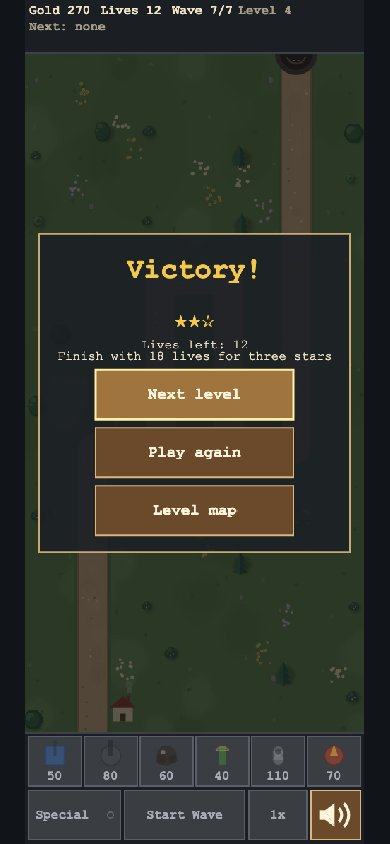
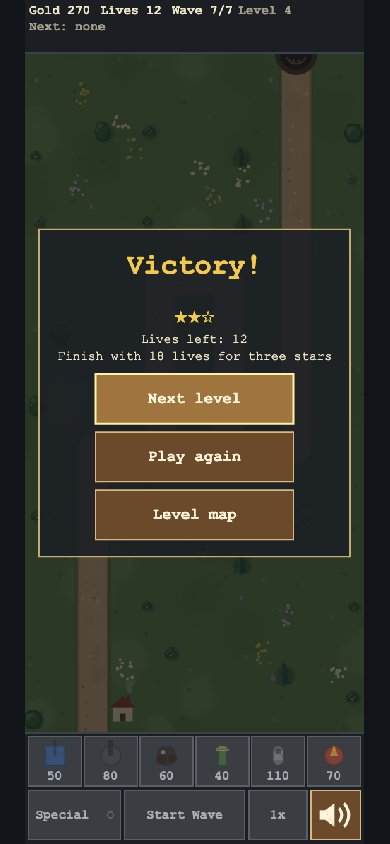
Give each campaign result line its own measured row

Changed region(s): [[0.0923, 0.3697, 0.8923, 0.6777], [0.0923, 0.2464, 0.8923, 0.3389]]

diff --git a/e2e/campaignScreens.ts b/e2e/campaignScreens.ts
@@ -1,6 +1,7 @@
 import { expect, test, type Page } from '@playwright/test';
 import type { TitleUiState } from '../src/game/TitleScene';
 import type { TarpitTestApi } from '../src/game/testGlobal';
+import { CAMPAIGN_TEXT, TITLE_TEXT } from '../src/game/names';
 import { api, press } from './campaign';
 import { paintedAsset, settle } from './painted';
 import { waitForFirstScreen } from './title';
@@ -34,7 +35,90 @@ async function finish(page: Page, win: boolean) {
   await onScreen(page, 'result');
 }
 
+/** Compare the Phaser text bounds and live hit targets in canvas coordinates. */
+async function checkSpacing(page: Page) {
+  const items = await page.evaluate(({ back, play }) => {
+    const t = window.__tarpit as TarpitTestApi;
+    const result = t.campaignResult();
+    const nodes = t.game.scene.getScene(t.scene()).children.list;
+    const labels = nodes.filter((node): node is Phaser.GameObjects.Text =>
+      node.type === 'Text' && (node as Phaser.GameObjects.Text).visible && !!(node as Phaser.GameObjects.Text).text);
+    const keys = result ? ['playAgain', 'menu', ...(result.nextId ? ['nextLevel'] : [])]
+      : Object.keys(t.uiRects()).filter(key => key.startsWith('title:'));
+    const boxes = keys.map(key => ({ key, owner: '', button: true, ...t.uiRects()[key] }));
+    const owners = new Map([[back, 'title:back'], [play, 'title:play']] as [string, string][]);
+    if (result) {
+      const buttons = result.nextId ? ['nextLevel', 'playAgain', 'menu'] : ['playAgain', 'menu'];
+      result.buttons.forEach((label, index) => owners.set(label, buttons[index]));
+    }
+    const expected = result ? [result.title, result.slots, ...result.details, ...result.buttons].filter(Boolean) : [];
+    const texts = result ? expected.map(value => {
+      const label = labels.find(node => node.text === value);
+      if (!label) throw new Error(`Missing separate result line: ${value}`);
+      return label;
+    }) : labels;
+    let stop = '';
+    for (const label of texts) {
+      const { x, y, width, height } = label.getBounds();
+      let owner = owners.get(label.text) ?? '';
+      if (t.screen() === 'levelMap') {
+        if (/^\d+$/.test(label.text)) stop = `title:stop:${label.text}`;
+        if (/^[★☆]+$|^\d+$/.test(label.text)) owner = stop;
+      }
+      boxes.push({ key: label.text, owner, button: false, x, y, width, height });
+    }
+    return boxes;
+  }, { back: CAMPAIGN_TEXT.back, play: TITLE_TEXT.play });
+  expect(items.length).toBeGreaterThan(3);
+  for (const [index, a] of items.entries()) {
+    for (const b of items.slice(index + 1)) {
+      if (a.button && b.owner === a.key) {
+        expect(b.x >= a.x && b.y >= a.y && b.x + b.width <= a.x + a.width &&
+          b.y + b.height <= a.y + a.height, `${b.key} fits ${a.key}`).toBe(true);
+        continue;
+      }
+      const gapX = Math.max(a.x - b.x - b.width, b.x - a.x - a.width);
+      const gapY = Math.max(a.y - b.y - b.height, b.y - a.y - a.height);
+      expect(Math.max(gapX, gapY), `${a.key} overlaps ${b.key}`).toBeGreaterThanOrEqual(0);
+    }
+  }
+}
+
 export function campaignScreenSuite(touch: boolean) {
+  test('campaign labels and buttons have separate space', async ({ page }) => {
+    await page.goto('/?test=1');
+    await waitForFirstScreen(page);
+    await press(page, 'title:campaign', touch);
+    await onScreen(page, 'levelMap');
+    await press(page, 'title:stop:10', touch);
+    await checkSpacing(page);
+    await api(page, t => t.setCampaignProgress(Object.fromEntries(Array.from({ length: 10 }, (_, i) => [i + 1, 3]))));
+    await onScreen(page, 'levelMap');
+    await checkSpacing(page);
+    for (let id = 1; id <= 10; id++) {
+      await press(page, `title:stop:${id}`, touch);
+      await onScreen(page, 'levelCard');
+      await checkSpacing(page);
+      await press(page, 'title:back', touch);
+      await onScreen(page, 'levelMap');
+    }
+    for (const id of [1, 10]) {
+      for (const lives of [0, 11, 12, 20]) {
+        await page.evaluate(async ({ id, lives }) => {
+          const t = window.__tarpit as TarpitTestApi;
+          await t.startLevel(id);
+          const state = t.state();
+          state.wave = state.level!.waves.length;
+          state.lives = lives;
+          state.phase = lives ? 'won' : 'lost';
+          t.step(0);
+        }, { id, lives });
+        await onScreen(page, 'result');
+        await checkSpacing(page);
+      }
+    }
+  });
+
   test('campaign trail, card, level, results and saved progress through real buttons', async ({ page }) => {
     const click = (key: string) => press(page, key, touch);
     await page.goto('/?test=1');

diff --git a/src/game/ui/endScreen.ts b/src/game/ui/endScreen.ts
@@ -60,6 +60,7 @@ export class EndScreen {
   private readonly title: Phaser.GameObjects.Text;
   private readonly lines: Phaser.GameObjects.Text;
   private readonly boons: Phaser.GameObjects.Text;
+  private detailRows: Phaser.GameObjects.Text[] = [];
   private readonly button: Button;
   private readonly menu: Button;
   private readonly keepGoing: Button;
@@ -152,7 +153,10 @@ export class EndScreen {
     if (campaign) {
       this.title.setText(campaign.title);
       this.lines.setText(campaign.slots).setFontSize(32).setColor(TEXT.victory);
-      this.boons.setText(campaign.details).setFontSize(18);
+      this.detailRows = campaign.details.map(text => this.boons.scene.add.text(this.cx, 0, text, {
+        fontFamily: FONT, fontSize: '18px', color: TEXT.endLine, align: 'center',
+        wordWrap: { width: (this.portrait ? P_PANEL_W : 560) - 32 },
+      }).setOrigin(0.5, 0));
       this.button.set(kind === 'won' ? END_TEXT.playAgain : CAMPAIGN_END.retry, true);
       this.menu.set(CAMPAIGN_END.map, true);
       this.keepGoing.set(CAMPAIGN_END.next, true);
@@ -172,6 +176,8 @@ export class EndScreen {
 
   /** Hide the screen (milestone 26: after Keep going); a later show() works again. */
   hide(): void {
+    for (const row of this.detailRows) row.destroy();
+    this.detailRows = [];
     this.shown = null;
     this.campaign = null;
     this.setVisible(false);
@@ -188,8 +194,36 @@ export class EndScreen {
   /** The panel width and the button row for this screen: two buttons, or three on the win screen (milestone 26). */
   private layout(): void {
     const buttons = this.hasAdvance ? [this.keepGoing, this.button, this.menu] : [this.button, this.menu];
+    if (this.campaign) {
+      const titleY = this.portrait ? P_TITLE_Y : 36;
+      const starsY = this.portrait ? P_LINES_Y : 82;
+      const rowGap = 8;
+      let cursor = this.lines.text
+        ? starsY + this.lines.height / 2 + rowGap
+        : starsY;
+      for (const row of this.detailRows) {
+        row.setY(cursor);
+        cursor += row.height + rowGap;
+      }
+      const buttonsY = cursor - rowGap + (this.portrait ? 16 : 22);
+      const buttonHeight = this.portrait
+        ? buttons.length * P_BUTTON_H + (buttons.length - 1) * P_GAP
+        : this.button.rect.height;
+      const h = buttonsY + buttonHeight + (this.portrait ? P_PAD_BOTTOM : 22);
+      const top = this.cy - h / 2;
+      this.panel.setSize(this.portrait ? P_PANEL_W : 560, h);
+      this.title.setY(top + titleY);
+      this.lines.setY(top + starsY);
+      for (const row of this.detailRows) row.setY(top + row.y);
+      if (this.portrait) {
+        buttons.forEach((b, i) => b.moveTo(this.cx - P_BUTTON_W / 2, top + buttonsY + i * (P_BUTTON_H + P_GAP)));
+      } else {
+        this.buttonRow(buttons, top + buttonsY);
+      }
+      return;
+    }
     if (this.portrait) {
-      const detailsY = this.campaign?.kind === 'lost' ? P_LINES_Y : P_BOONS_TOP;
+      const detailsY = P_BOONS_TOP;
       const buttonsY = this.boons.text
         ? Math.max(P_BUTTONS_Y, detailsY + this.boons.height + 10)
         : P_BUTTONS_Y;
@@ -202,21 +236,11 @@ export class EndScreen {
       buttons.forEach((b, i) => b.moveTo(this.cx - P_BUTTON_W / 2, top + buttonsY + i * (P_BUTTON_H + P_GAP)));
       return;
     }
-    let y = this.buttonY;
-    if (this.campaign) {
-      this.boons.setOrigin(0.5, 0);
-      const detailsY = this.lines.text ? 112 : 82;
-      const buttonsY = detailsY + this.boons.height + 22;
-      const h = buttonsY + this.button.rect.height + 22;
-      const top = this.cy - h / 2;
-      this.panel.setSize(560, h);
-      this.title.setY(top + 36);
-      this.lines.setY(top + 82);
-      this.boons.setY(top + detailsY);
-      y = top + buttonsY;
-    } else {
-      this.panel.setSize(this.hasAdvance ? PANEL_W_WON : PANEL_W, PANEL_H);
-    }
+    this.panel.setSize(this.hasAdvance ? PANEL_W_WON : PANEL_W, PANEL_H);
+    this.buttonRow(buttons, this.buttonY);
+  }
+
+  private buttonRow(buttons: Button[], y: number): void {
     const total = buttons.reduce((n, b) => n + b.rect.width, 0) + (buttons.length - 1) * BUTTON_GAP;
     let x = this.cx - total / 2;
     for (const b of buttons) {

diff --git a/src/game/ui/endText.ts b/src/game/ui/endText.ts
@@ -33,8 +33,8 @@ export function campaignResultText(state: GameState, progress: CampaignProgress)
   return {
     kind, levelId, stars, lives, nextId, slots, hint, complete,
     title: won ? END_TEXT.wonTitle : END_TEXT.lostTitle,
-    details: won ? [livesLeftText(lives), hint, complete].filter(Boolean).join('\n')
-      : reachedWaveText(state.wave, false, lastWave(state)),
+    details: won ? [livesLeftText(lives), hint, complete].filter(Boolean)
+      : [reachedWaveText(state.wave, false, lastWave(state))],
     buttons: [...(nextId ? [CAMPAIGN_END.next] : []), won ? END_TEXT.playAgain : CAMPAIGN_END.retry, CAMPAIGN_END.map],
   };
 }
